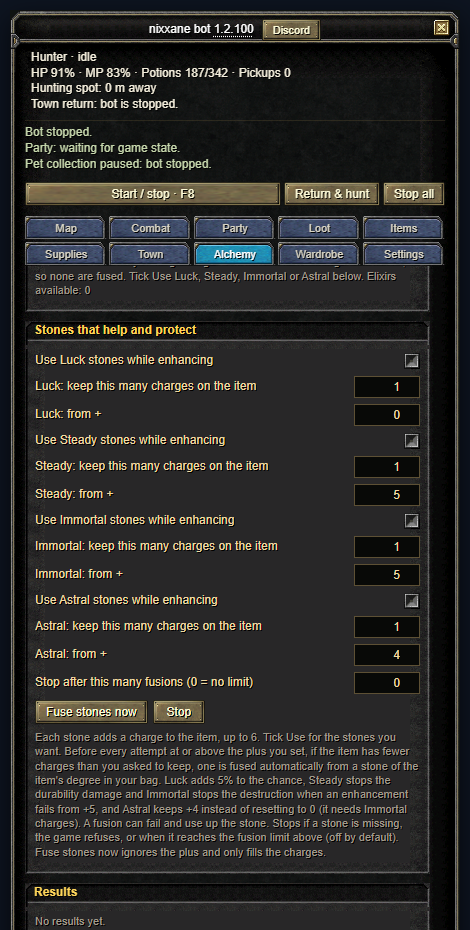
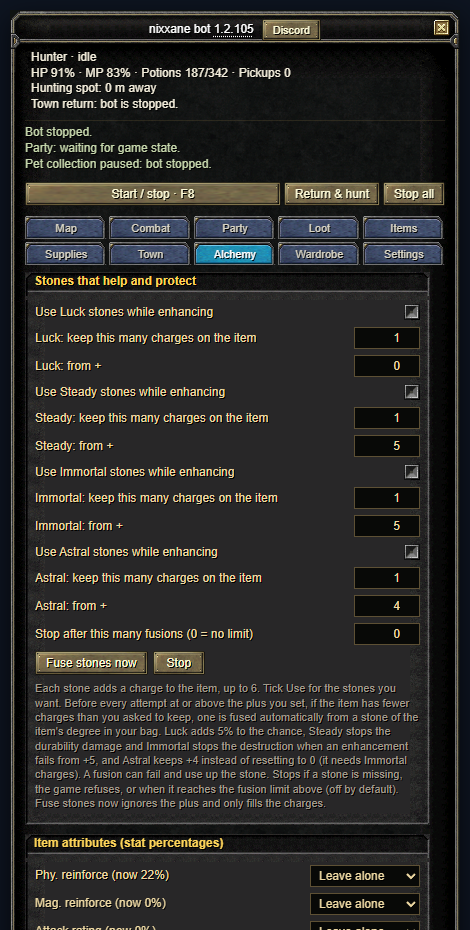
1.2.105 patch notes, attribute guide

Changed region(s): [[0.0596, 0.2806, 0.9234, 1.0]]

diff --git a/guide.html b/guide.html
@@ -117,6 +117,10 @@
     <p>Under <strong>Stones that help and protect</strong> tick <strong>Use Luck / Steady / Immortal / Astral stones while enhancing</strong> for the helpers you want, set how many charges to keep on the item (1 to 6) and the plus each is used <strong>from</strong>. Luck raises the enhancement success chance, Steady stops durability damage, Immortal stops destruction when an enhancement fails from +5, and Astral keeps +4 instead of resetting to 0. The stones must be of the item's degree and in your bag; when the item has fewer charges than you asked to keep, one is fused automatically before every attempt at or above its plus. <strong>Fuse stones now</strong> ignores the plus and only fills the charges.</p>
     <img class="shot" src="guide/09b-alchemy-stones.png" width="470" alt="The Alchemy tab, Stones that help and protect: Luck, Steady, Immortal and Astral counts, the plus each is used from, and the Fuse stones now button.">
 
+    <h3>Item attributes</h3>
+    <p>Under <strong>Item attributes (stat percentages)</strong> pick, for the item selected at the top, the lowest percentage you want for each stat. Press <strong>Fuse attribute stones</strong> and the bot fuses attribute stones of the item's degree until every picked stat reaches its target. A successful fusion rolls the stat again, so it can come out lower, and it can re-roll another stat of the item, so the bot keeps checking all of them. The chance is 50% per stone before bonuses and the 80% and 100% steps are rare, so keep the stone limit (100 by default) sensible. It stops if a stone of the right kind is missing from the bag.</p>
+    <img class="shot" src="guide/09c-alchemy-attributes.png" width="470" alt="The Alchemy tab, Item attributes: each stat of the item with its current percentage and a target, the stone limit and the Fuse attribute stones button.">
+
     <h2 id="problems">6. If something goes wrong</h2>
     <p>The status line at the top of the panel says what the bot is waiting for. The common messages:</p>
     <table class="messages">

diff --git a/index.html b/index.html
@@ -26,6 +26,14 @@
       <h2 id="patch-notes-title">Patch notes</h2>
       <p class="notes-intro">Install the latest script, then reload the game. Reporting-service fixes apply automatically.</p>
       <article class="release">
+        <h3><a href="https://github.com/nixxane/opensro-bot-lean/commit/2bfb1e0">1.2.105</a> · Alchemy: aim for stat percentages with attribute stones</h3>
+        <ul>
+          <li>New Item attributes group in the Alchemy tab. Pick an item, choose the lowest percentage you want for each of its stats (Phy. reinforce, Mag. reinforce, attack rating, attack power, critical, defense, block, absorption and so on, depending on the kind of item) and press Fuse attribute stones. The bot fuses attribute stones of the item's degree until every picked stat reaches its target.</li>
+          <li>Every successful fusion rolls the stat again, so it can come out lower, and it can re-roll another stat of the item; the bot keeps going until all picked stats are at or above their targets, and the log names any other stat that changed.</li>
+          <li>The tab shows each stat's current percentage and a rough number of stones each target takes (the chance is 50% per stone before bonuses and the top steps get rare fast), and a stone limit (100 by default) stops it. It stops with a message if a stone of the right kind is missing from the bag.</li>
+        </ul>
+      </article>
+      <article class="release">
         <h3><a href="https://github.com/nixxane/opensro-bot-lean/commit/c1a9144">1.2.104</a> · Stuck-character recall fix</h3>
         <ul>
           <li>If the optional recovery recall could not start a town trip, hunting kept running and the stuck check repeated forever. Hunting now stops with the alert, like when recall is off.</li>
